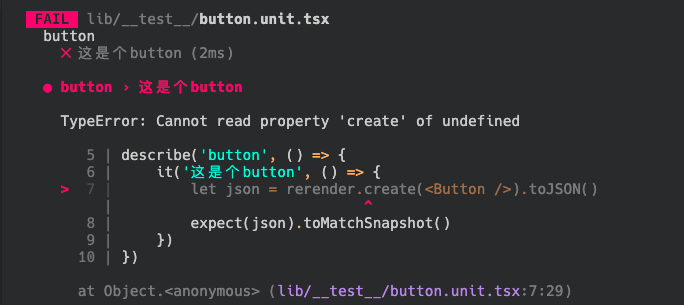
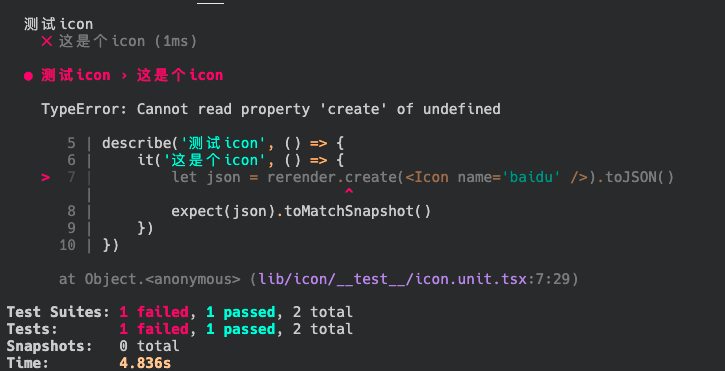
为icon组件添加测试文件

diff --git a/react-ui-wheel项目笔记/3_为icon写测试文件.md b/react-ui-wheel项目笔记/3_为icon写测试文件.md
@@ -1,0 +1,198 @@
+[toc]
+## 配置jest测试
+**1. 安装依赖**
+由于jest只会在开发环境使用，因此只需要在开发环境安装
+```
+npm i -D jest babel-jest @babel/preset-env @babel/preset-react react-test-renderer @types/jest ts-jest @types/react-test-renderer 
+```
+**2. 添加babel配置文件**
+在根目录添加babel.config.js文件
+```
+// babel.config.js
+module.exports = {
+  presets: ['@babel/preset-env', '@babel/preset-react'],
+};
+```
+**3. 添加jest配置文件**
+在根目录添加jest.config.js文件，并在package.json里面配置jest命令
+```
+// jest.config.js (配置字段的含义暂时不太清楚😞)
+module.exports = {
+    verbose: true,
+    clearMocks: false,
+    collectCoverage: false,
+    reporters: ["default"],
+    moduleFileExtensions: ["js", "jsx", "ts", "tsx"],
+    testMatch: ["<rootDir>/**/__test__/**/*.unit.(js|jsx|ts|tsx)"],
+    transform: {
+        "^.+unit\\.(js|jsx)$": "babel-jest",
+        "^.+\\.(ts|tsx)$": "ts-jest"
+    }
+}
+
+// package.json
+"scripts": {
+    "test": "jest --config jest.config.js"
+  },
+```
+**4. 新建测试文件**
+在lib目录下新建__test__目录，并在该目录新建hello_unit.tsx文件，并写一点简单的测试用例
+```
+describe('我的测试用例', () => {
+    it('1等于1', () => {
+        expect(1).toEqual(2)
+    })
+})
+```
+在控制台运行`npm run test`，则会显示测试用例失败了。
+
+![](./images/12.png)
+
+我们将上述代码改成，再运行`npm run test`，
+```
+describe('我的测试用例', () => {
+    it('1等于1', () => {
+        expect(1).toEqual(1)
+    })
+})
+```
+![](./images/14.png)
+至此我们的测试用例可以跑起来了👏，接下来我们可以写一些和我们代码相关的测试用例了。
+
+### 使用`react-test-renderer`测试ui
+**5. 测试我们的icon按钮**
+在lib目录下新建__test__目录，并在该目录新建icon_unit.tsx文件，并写测试用例
+```
+import rerender from 'react-test-renderer'
+import Icon from '../icon'
+import React from 'react'
+
+describe('测试icon', () => {
+    it('这是个icon', () => {
+        let json = rerender.create(<Icon name='baidu' />).toJSON()
+        expect(json).toMatchSnapshot()
+    })
+})
+```
+**6. 为图片，css等配置桩数据**
+a. 修改`test.config.js`，为图片、样式等文件添加模拟的桩数据：
+```
+moduleNameMapper: {
+        "\\.(jpg|jpeg|png|gif|eot|otf|webp|svg|ttf|woff|woff2|mp4|webm|wav|mp3|aac|oga)$": "<rootDir>/test/__mocks__/file-mock.js",
+        "\\.(css|less|sass|scss)$": "<rootDir>/test/__mocks__/object-mock.js"
+    }
+```
+b. 在根目录下新建`test/__mocks__`目录，并新建`file-mock.js`和`object-mock.js`两个文件来模拟相应文件的导出：
+```
+// file-mock.js
+module.exports = 'test-file-stub';
+
+// object-mock.js
+module.exports = {}
+```
+此时`jest.config.js`文件如下：
+```
+module.exports = {
+    verbose: true,
+    clearMocks: false,
+    collectCoverage: false,
+    reporters: ["default"],
+    moduleFileExtensions: ["js", "jsx", "ts", "tsx"],
+    moduleDirectories: ['node_modules', 'include'],
+    moduleNameMapper: {
+        "\\.(jpg|jpeg|png|gif|eot|otf|webp|svg|ttf|woff|woff2|mp4|webm|wav|mp3|aac|oga)$": "<rootDir>/test/__mocks__/file-mock.js",
+        "\\.(css|less|sass|scss)$": "<rootDir>/test/__mocks__/object-mock.js"
+    },  // ✨ 添加这两行
+    testMatch: ["<rootDir>/**/__test__/**/*.unit.(js|jsx|ts|tsx)"],
+    transform: {
+        "^.+unit\\.(js|jsx)$": "babel-jest",
+        "^.+\\.(ts|tsx)$": "ts-jest"
+    }
+}
+```
+**7. 配置rerender**
+
+控制台执行`npm run test`，会显示我们的icon测试用例失败
+![](./images/13.png)
+报错显示rerender是undefined，这是因为`react-test-renderer`没有默认导出，我们可以修改`tsconfig.json`配置文件
+```
+{
+    "compilerOptions": {
+        "module": "esnext",
+        "target": "es5",
+        "lib": [
+            "es6",
+            "dom"
+        ],
+        "jsx": "react",
+        "declaration": true,
+        "moduleResolution": "node",
+        "forceConsistentCasingInFileNames": false,
+        "strict": true,
+        "experimentalDecorators": true,
+        "noErrorTruncation": true,
+        "baseUrl": ".",
+        // "allowSyntheticDefaultImports": true, 注释这行
+        "esModuleInterop": true, // 添加这个属性
+        "outDir": "dist"
+    },
+    "include": [
+        "lib/**/*",
+        "utils/**/*"
+    ],
+    "exclude": []
+}
+```
+此时运行`npm run test`，我们的测试可以成功运行了，不过上面函数的含义，我还不知道为啥，先留个坑，之后再来回答：
+![](./images/15.png)
+
+**8. snapshots**
+上述执行`npm run test`之后会自动在`icon/__test__`目录下生成`__snapshots__`目录，并生成`icon.unit.tsx.snap`文件，这是当前测试ui的快照，如果需要更新快照，则可以在`jest`后面加上`-u`：
+```
+jest --config jest.config.js -u
+```
+
+### 使用`enzyme`测试react中的事件。
+**1. 安装相应的依赖**
+```
+npm i -D enzyme @types/enzyme enzyme-adapter-react-16 
+```
+**2. 添加相应的配置**
+a. 在`jest.config.js`文件里面添加`setupFiles`选项：
+```
+setupFiles: ["<rootDir>test/setupTest.js"]
+```
+`setupFiles`：配置文件，在运行测试案例代码之前，Jest会先运行这里的配置文件来初始化指定的测试环境
+
+b. 在根目录的test目录下新建`setupTest.js`来初始化测试环境
+```
+const enzyme = require('enzyme')
+const Adapter = require('enzyme-adapter-react-16')
+
+enzyme.configure({ adapter: new Adapter() })
+```
+**3. 写测试用例**
+在`icon.unit.tsx`文件里添加点击事件的测试代码
+```
+import { mount } from 'enzyme'
+
+it('它可以点击', () => {
+
+    let fn = jest.fn()
+    let componnet = mount(<Icon name='baidu' onClick={fn} />)
+    componnet.find('svg').simulate('click')
+    expect(fn).toBeCalled()
+})
+```
+
+### 总结
+至此，icon文件的测试就完成啦，目前icon的目录如下：
+```
+├── __test__
+│   ├── __snapshots__
+│   │   └── icon.unit.tsx.snap
+│   └── icon.unit.tsx
+├── icon.scss
+├── icon.tsx
+└── import.js
+```

diff --git a/react-ui-wheel项目笔记/2_tsx配置.md b/react-ui-wheel项目笔记/2_tsx配置.md
@@ -256,7 +256,7 @@ module.exports = Object.assign({}, base, {
     "start": "webpack-dev-server --config webpack.config.dev.js"
   }
 ```
-### 8. 修改ts编译文件的输出路径
+### 9. 修改ts编译文件的输出路径
 默认下ts的编译文件输出路径和原ts文件相同，可以在tsconfig.json文件中添加“outDir”: "dist"来改变输出路径到dist目录。或者在package.json文件中修改 `"tsc": "tsc --outDir dist"` 。
 ```
 // tsconfig.json
@@ -275,112 +275,3 @@ module.exports = Object.assign({}, base, {
 此时文件夹的目录结构为：
 
 ![10](./images/10.png)
-### 9. 配置jest测试
-**1. 安装依赖**
-由于jest只会在开发环境使用，因此只需要在开发环境安装
-```
-npm i -D jest babel-jest @babel/preset-env @babel/preset-react react-test-renderer @types/jest ts-jest @types/react-test-renderer 
-```
-**2. 添加babel配置文件**
-在根目录添加babel.config.js文件
-```
-// babel.config.js
-module.exports = {
-  presets: ['@babel/preset-env', '@babel/preset-react'],
-};
-```
-**3. 添加jest配置文件**
-在根目录添加jest.config.js文件，并在package.json里面配置jest命令
-```
-// jest.config.js (配置字段的含义暂时不太清楚😞)
-module.exports = {
-    verbose: true,
-    clearMocks: false,
-    collectCoverage: false,
-    reporters: ["default"],
-    moduleFileExtensions: ["js", "jsx", "ts", "tsx"],
-    testMatch: ["<rootDir>/**/__test__/**/*.unit.(js|jsx|ts|tsx)"],
-    transform: {
-        "^.+unit\\.(js|jsx)$": "babel-jest",
-        "^.+\\.(ts|tsx)$": "ts-jest"
-    }
-}
-
-// package.json
-"scripts": {
-    "test": "jest --config jest.config.js"
-  },
-```
-**4. 新建测试文件**
-在lib目录下新建__test__目录，并在该目录新建hello_unit.tsx文件，并写一点简单的测试用例
-```
-describe('我的测试用例', () => {
-    it('1等于1', () => {
-        expect(1).toEqual(2)
-    })
-})
-```
-在控制台运行`npm run test`，则会显示测试用例失败了。
-
-![](./images/12.png)
-
-我们将上述代码改成，再运行`npm run test`，
-```
-describe('我的测试用例', () => {
-    it('1等于1', () => {
-        expect(1).toEqual(1)
-    })
-})
-```
-![](./images/14.png)
-至此我们的测试用例可以跑起来了👏，接下来我们可以写一些和我们代码相关的测试用例了。
-
-**5. 测试我们的button按钮**
-
-在lib/__test__目录下新建button_unit.tsx文件，并写测试用例
-```
-import rerender from 'react-test-renderer'
-import Button from '../button'
-import React from 'react'
-
-describe('button', () => {
-    it('这是个button', () => {
-        let json = rerender.create(<Button />).toJSON()
-        expect(json).toMatchSnapshot()
-    })
-})
-```
-控制台执行`npm run test`，会显示我们的button测试用例失败
-![](./images/13.png)
-报错显示rerender是undefined，这是因为`react-test-renderer`没有默认导出，我们可以修改`tsconfig.json`配置文件
-```
-{
-    "compilerOptions": {
-        "module": "esnext",
-        "target": "es5",
-        "lib": [
-            "es6",
-            "dom"
-        ],
-        "jsx": "react",
-        "declaration": true,
-        "moduleResolution": "node",
-        "forceConsistentCasingInFileNames": false,
-        "strict": true,
-        "experimentalDecorators": true,
-        "noErrorTruncation": true,
-        "baseUrl": ".",
-        // "allowSyntheticDefaultImports": true, 注释这行
-        "esModuleInterop": true, // 添加这个属性
-        "outDir": "dist"
-    },
-    "include": [
-        "lib/**/*",
-        "utils/**/*"
-    ],
-    "exclude": []
-}
-```
-此时运行`npm run test`，我们的测试可以成功运行了，不过上面函数的含义，我还不知道为啥，先留个坑，之后再来回答：
-
-![](./images/15.png)
